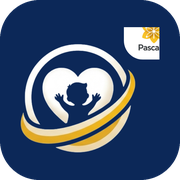
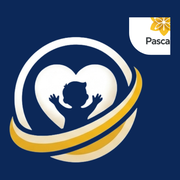
fix(nutricion): el logotipo se veia encogido en el portal y el encabezado
Dos causas distintas, con la misma apariencia de logotipo reducido.

En el portal, el contenedor .prog-icon tiene fondo y mide 42 px, y adentro
iba una imagen de 27. Como el logotipo ya trae su propio recuadro azul,
quedaba un recuadro dentro de otro y el emblema se veia diminuto. Ahora la
imagen ocupa los 42 px completos y el contenedor va sin fondo. El acceso
rapido pasa de 22 a 26 px.

En el encabezado, el simbolo se genero con un margen de 1,30 veces el
emblema, asi que este solo ocupaba el 77 % del lado. Se regenero con 1,12
y ahora ocupa el 89 %. El icono del encabezado sube de 42 a 46 px, y baja
a 40 en pantallas de celular.

De paso, los iconos para instalar en el celular (180 y 192 px) se generan
como cuadrado completo, sin transparencia ni esquinas redondeadas: iOS y
Android aplican su propia mascara, y un PNG ya redondeado deja un borde
sobre el fondo del sistema. El de la pestana del navegador (32 px) si
conserva las esquinas transparentes.

Verificacion: 81/81 comprobaciones, las 7 vistas y la pantalla de ingreso
sin errores de pagina, sin desborde a 390 px, y la tarjeta del portal
revisada en una vista aislada con el CSS real del portal.

Claude-Session: https://claude.ai/code/session_014rewXf9nkCGvp4GxEmHCRC

diff --git a/index.html b/index.html
@@ -778,7 +778,7 @@ body {
       <div class="prog-accent" style="background: linear-gradient(90deg, #0C2858, #E1A823);"></div>
       <div class="prog-body">
         <div class="prog-top">
-          <div class="prog-icon" style="background: rgba(12,40,88,0.08);"><img src="NUTRICIÓN NANA DNT/assets/icono-192.png" alt="" style="width:27px;height:27px;display:block"></div>
+          <div class="prog-icon" style="background:none;"><img src="NUTRICIÓN NANA DNT/assets/nana-dnt-simbolo.png" alt="" style="width:42px;height:42px;display:block;border-radius:10px"></div>
           <span class="prog-badge live">Activo</span>
         </div>
         <div class="prog-name">NANA DNT · Seguimiento Nutricional Infantil</div>
@@ -928,7 +928,7 @@ body {
       <div><div class="quick-name">Ejecución EBS · Res. 0900</div><div class="quick-sub">15 soportes · Expedientes · PISIS</div></div>
     </a>
     <a href="NUTRICIÓN NANA DNT/index.html" class="quick-card">
-      <span class="quick-icon"><img src="NUTRICIÓN NANA DNT/assets/icono-192.png" alt="" style="width:22px;height:22px;display:block"></span>
+      <span class="quick-icon"><img src="NUTRICIÓN NANA DNT/assets/nana-dnt-simbolo.png" alt="" style="width:26px;height:26px;display:block;border-radius:6px"></span>
       <div><div class="quick-name">NANA DNT</div><div class="quick-sub">Riesgo y DNT aguda · 0-59 meses</div></div>
     </a>
     <a href="SEGUIMIENTO RECURSOS SER124DREC/Seguimiento_Recursos_SER124DREC.html" class="quick-card">

diff --git a/NUTRICIÓN NANA DNT/app/estilos.css b/NUTRICIÓN NANA DNT/app/estilos.css
@@ -63,10 +63,11 @@ a { color: var(--menta); }
 .marca { display: flex; align-items: center; gap: 12px; text-decoration: none; color: inherit; }
 /* El logotipo trae su propio fondo azul y sus esquinas redondeadas */
 .marca-icono {
-  width: 42px; height: 42px; flex-shrink: 0; display: block;
+  width: 46px; height: 46px; flex-shrink: 0; display: block;
   object-fit: contain;
   filter: drop-shadow(0 3px 10px rgba(12,40,88,.30));
 }
+@media (max-width: 720px) { .marca-icono { width: 40px; height: 40px; } }
 .marca-txt strong { display: block; font-size: .96rem; font-weight: 700; letter-spacing: -.01em; }
 .marca-txt span   { display: block; font-size: .72rem; color: var(--texto-3); }
 .enc-sep { flex: 1; }

diff --git a/NUTRICIÓN NANA DNT/index.html b/NUTRICIÓN NANA DNT/index.html
@@ -17,7 +17,7 @@
 <header class="enc">
   <a class="marca" href="index.html">
     <img class="marca-icono" src="assets/nana-dnt-simbolo.png"
-         alt="NANA DNT" width="42" height="42">
+         alt="NANA DNT" width="46" height="46">
     <div class="marca-txt">
       <strong>NANA DNT</strong>
       <span>Seguimiento Nutricional Infantil · ESE HRNO</span>
